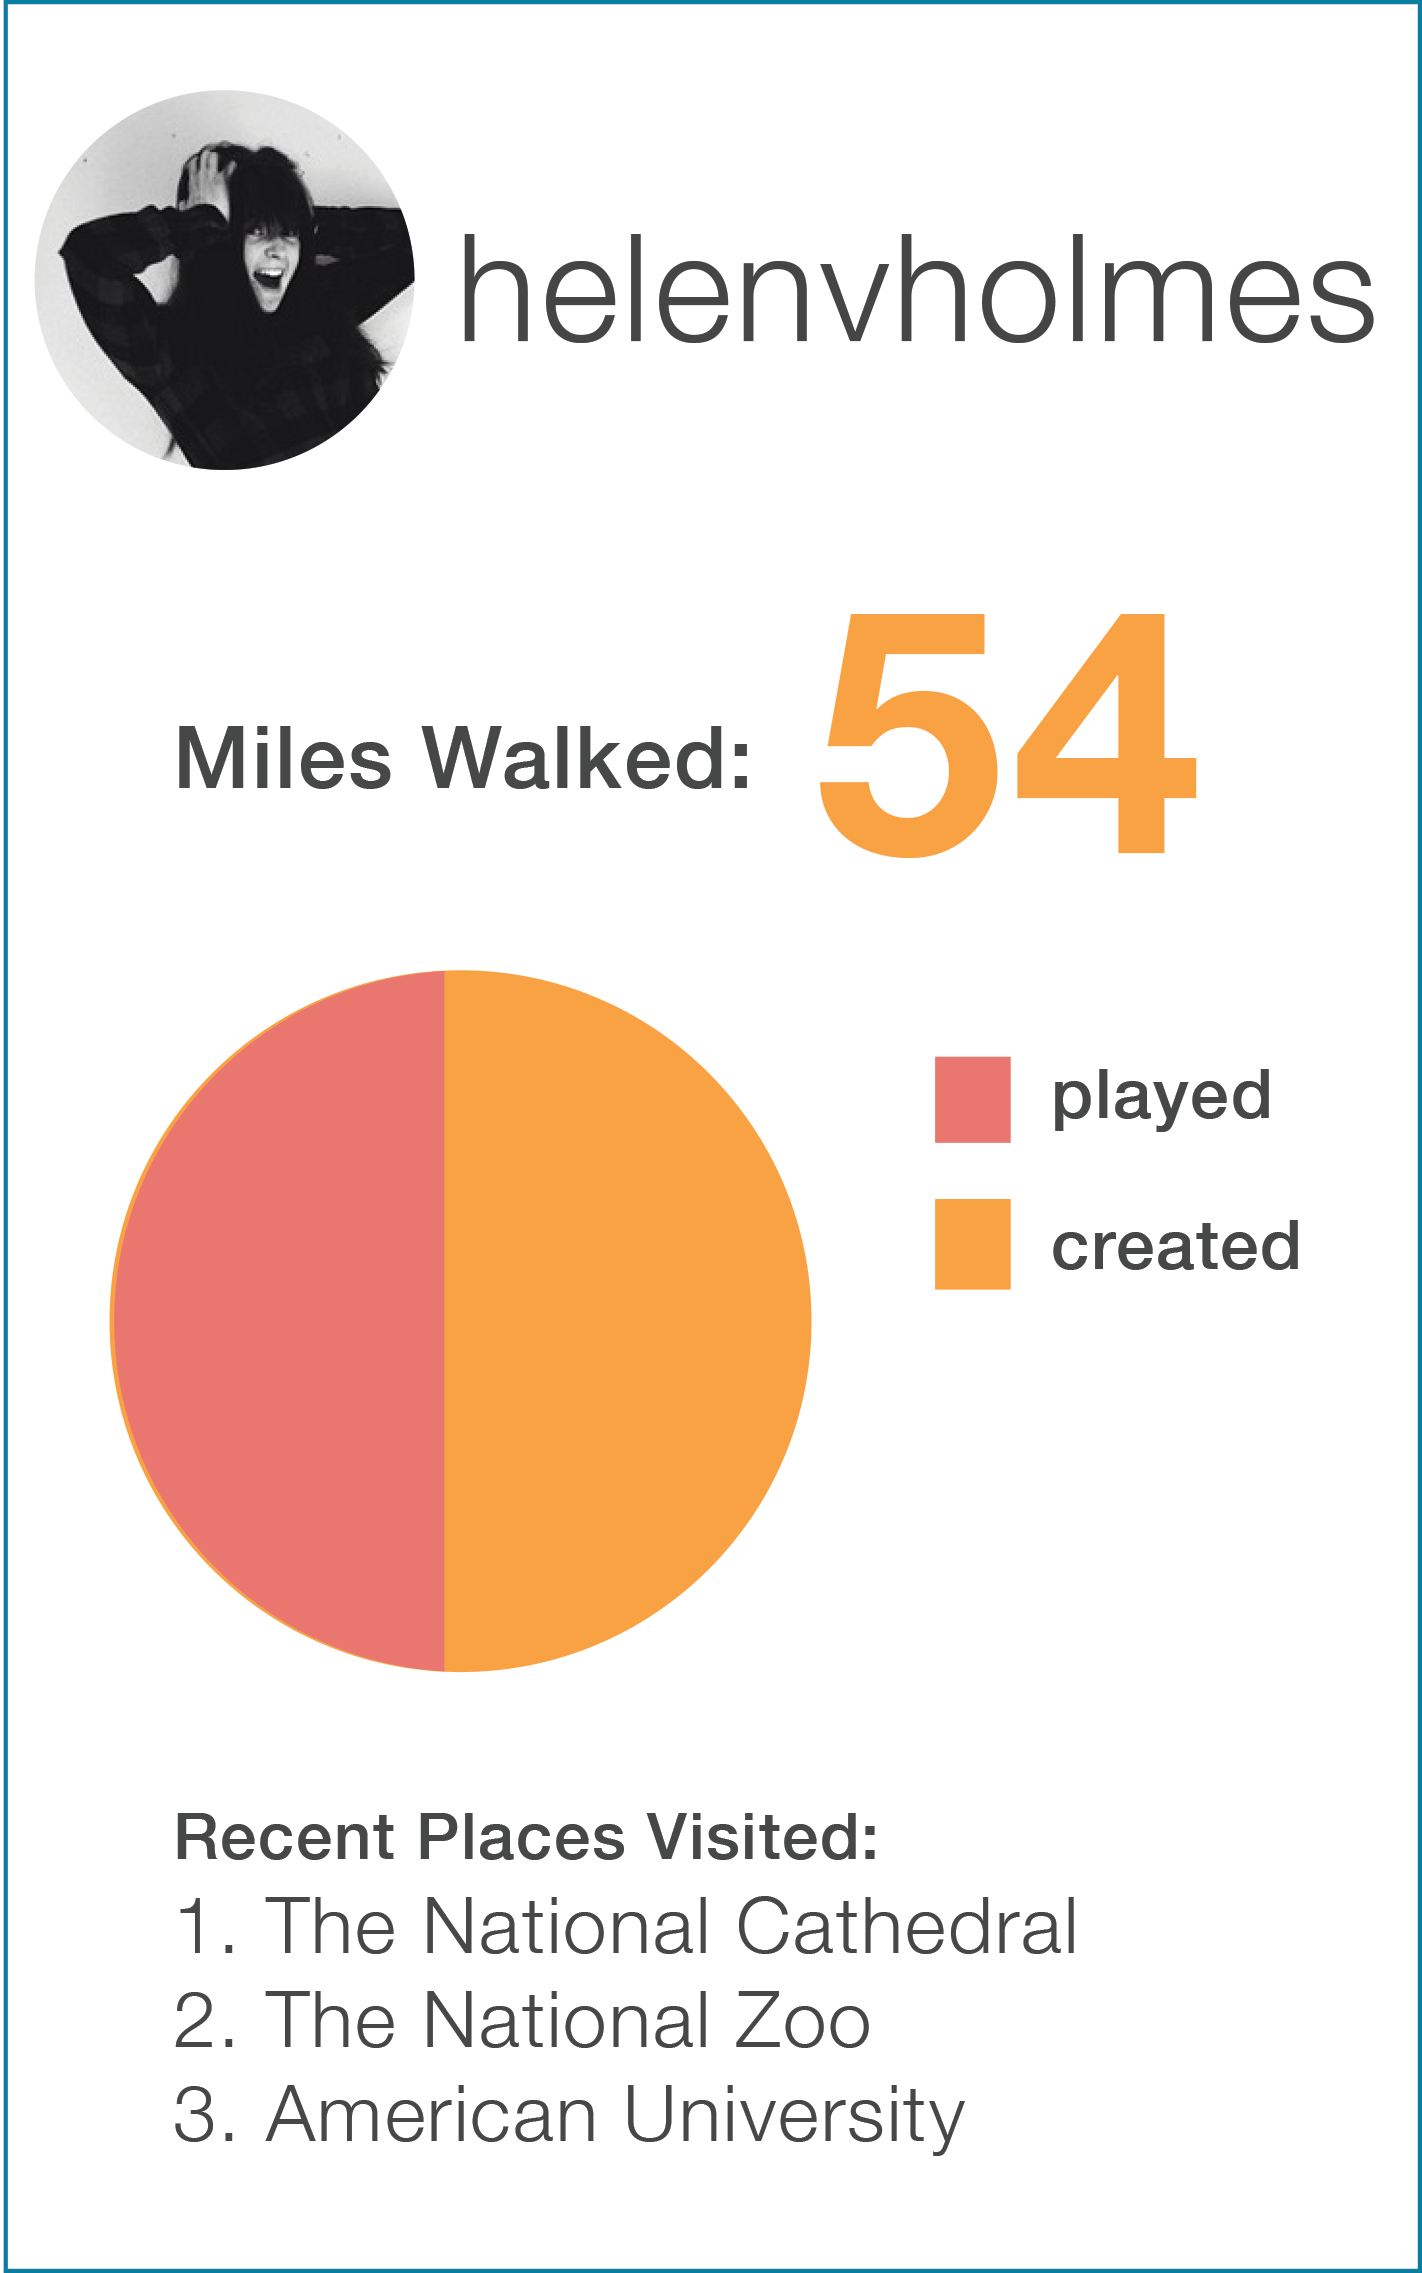
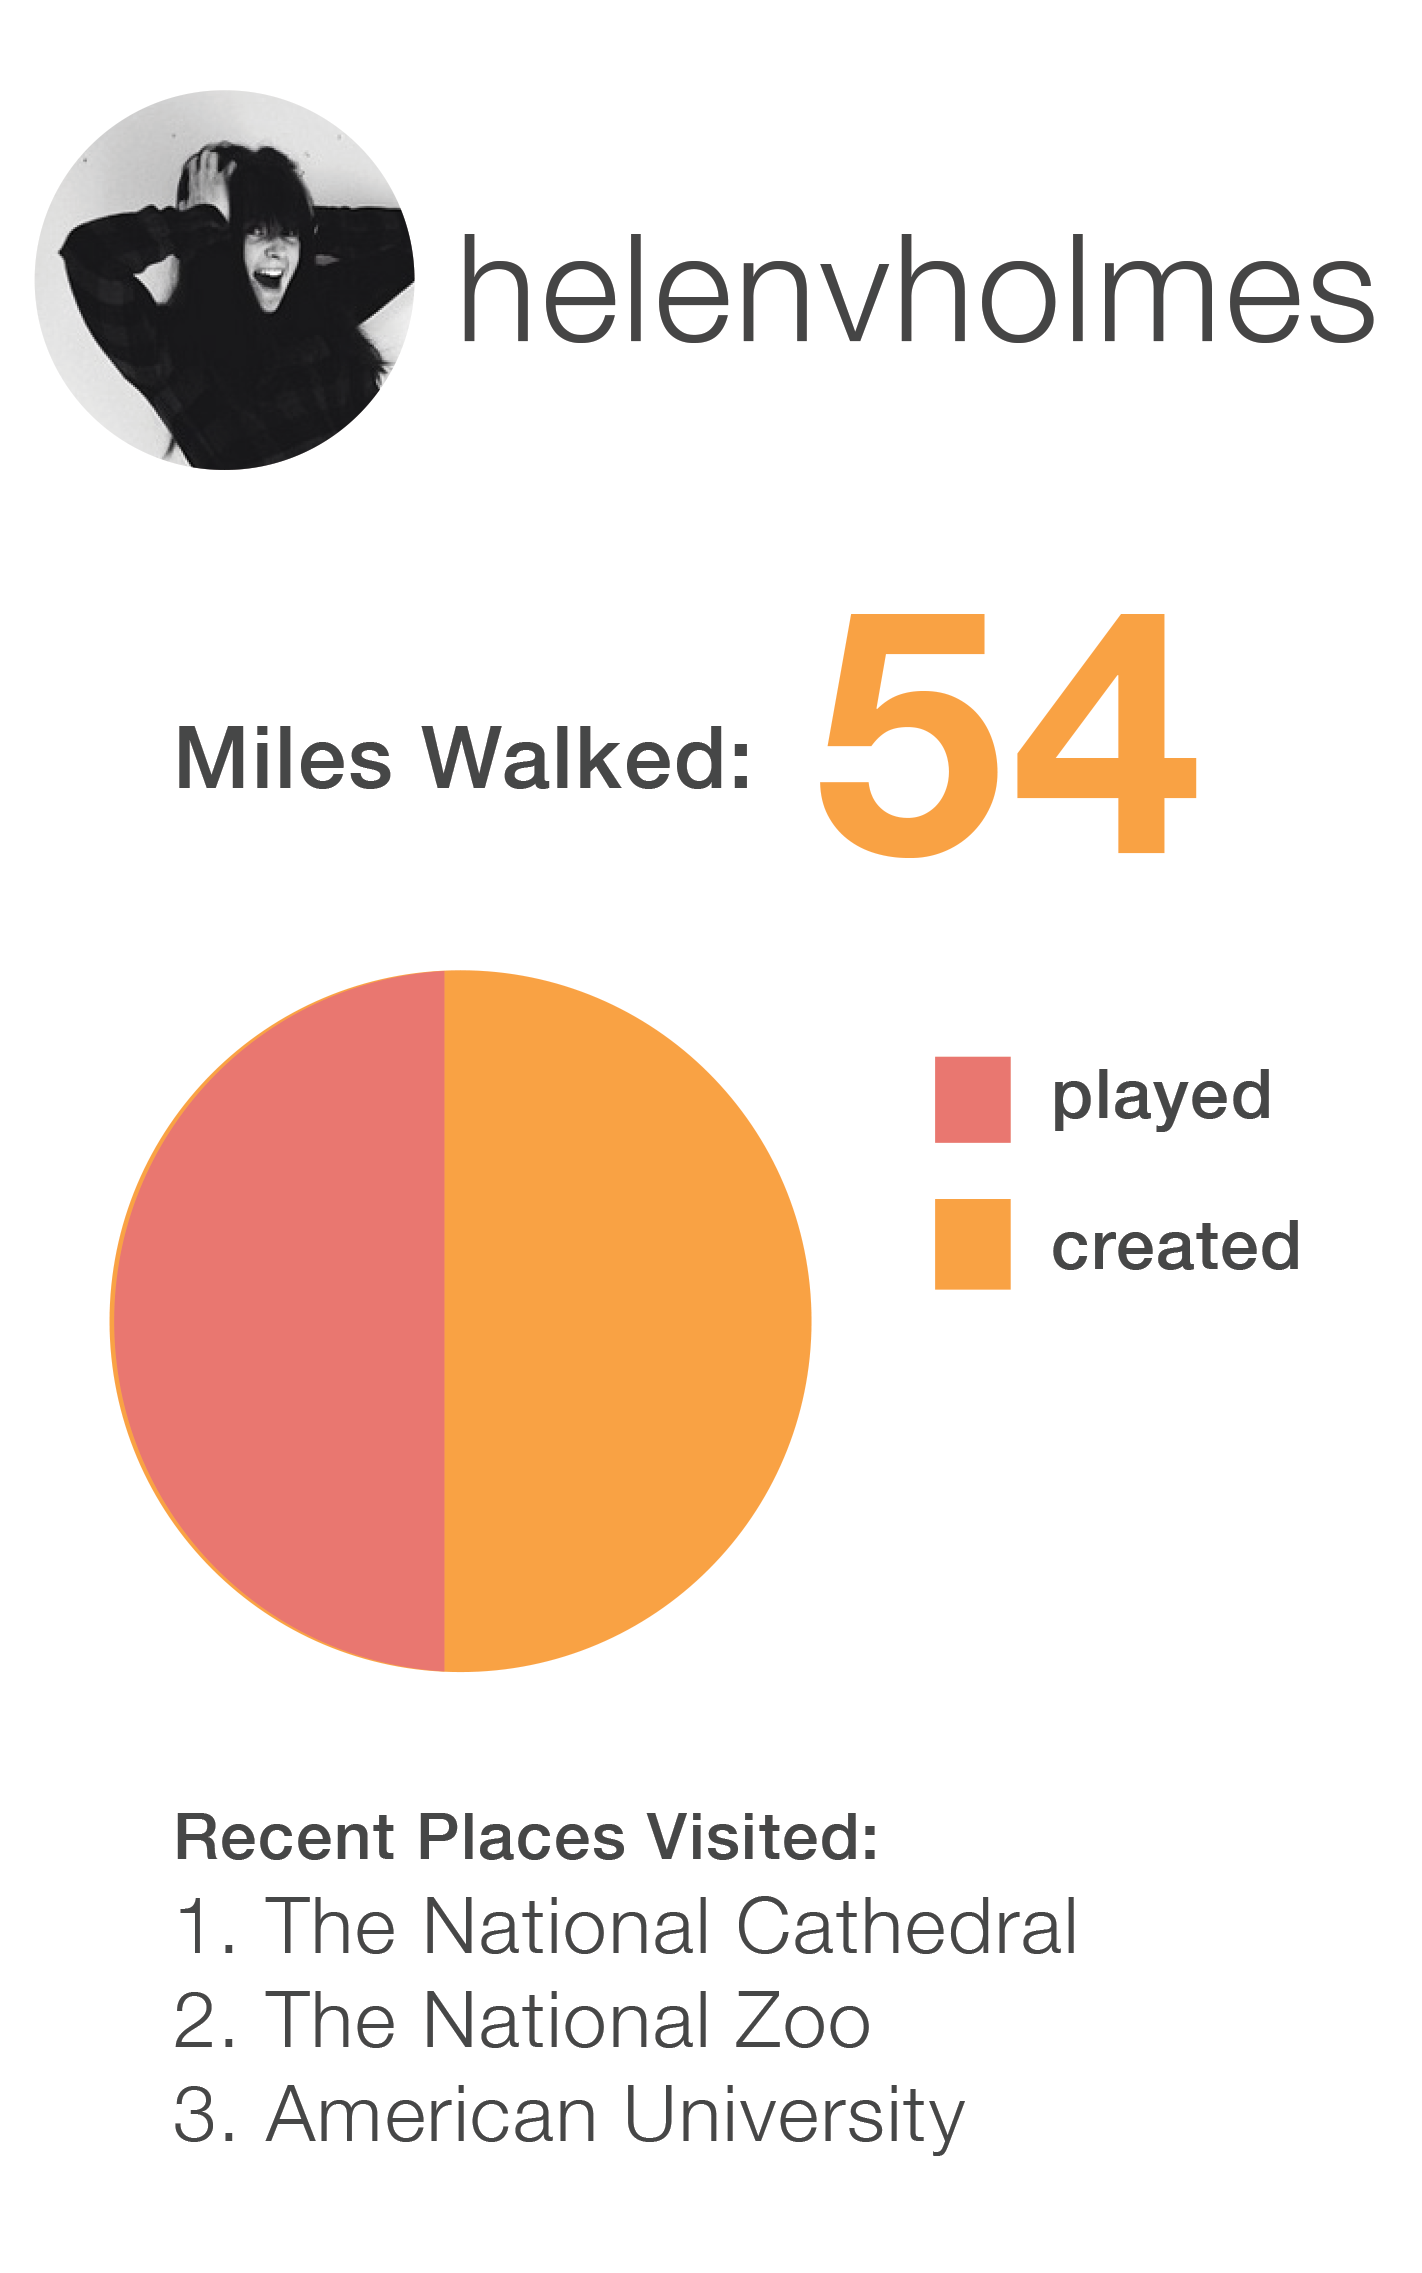
Profileimage in

Changed region(s): [[0.0, 0.0, 1.0, 1.0]]

diff --git a/css/i.css b/css/i.css
@@ -2309,6 +2309,9 @@ items should be rotated by x, minus (sum of angles - 180)2s (for this demo) */
 /* ==========================================================================
    Site styles
    ========================================================================== */
+body {
+  font-family: 'helvetica', sans-serif; }
+
 .bar-title .title {
   text-shadow: none; }
 
@@ -2479,8 +2482,7 @@ ul li a {
 #profile {
   font-size: 16px; }
   #profile img {
-    float: left;
-    width: 150px; }
+    width: 100%; }
   #profile .name {
     font-size: 16px;
     float: left;
@@ -2544,17 +2546,6 @@ ul li a {
 .light {
   margin-left: 230px;
   color: #999999; }
-
-#profile {
-  font-size: 16px; }
-  #profile img {
-    float: left;
-    width: 150px; }
-  #profile .name {
-    font-size: 16px;
-    float: left;
-    line-height: 150px;
-    display: inline-block; }
 
 #explore li:first-child img {
   opacity: 1;

diff --git a/sass/_styles.scss b/sass/_styles.scss
@@ -2,6 +2,10 @@
    Site styles
    ========================================================================== */
 
+body {
+	font-family: 'helvetica', sans-serif;
+}
+
 // Changing colors of Ratchet buttons
 .bar-title {
 	.title {
@@ -256,8 +260,7 @@ ul {
 #profile {
 	font-size: $body;
 	img {
-		float: left;
-		width: 150px;
+		width: 100%;
 	}
 	.name {
 		font-size: $body;
@@ -354,22 +357,6 @@ ul {
 
 }
 
-
-// profile jank
-
-#profile {
-	font-size: $body;
-	img {
-		float: left;
-		width: 150px;
-	}
-	.name {
-		font-size: $body;
-		float: left;
-		line-height: 150px;
-		display:inline-block;
-	}
-}
 
 // Explore
 
